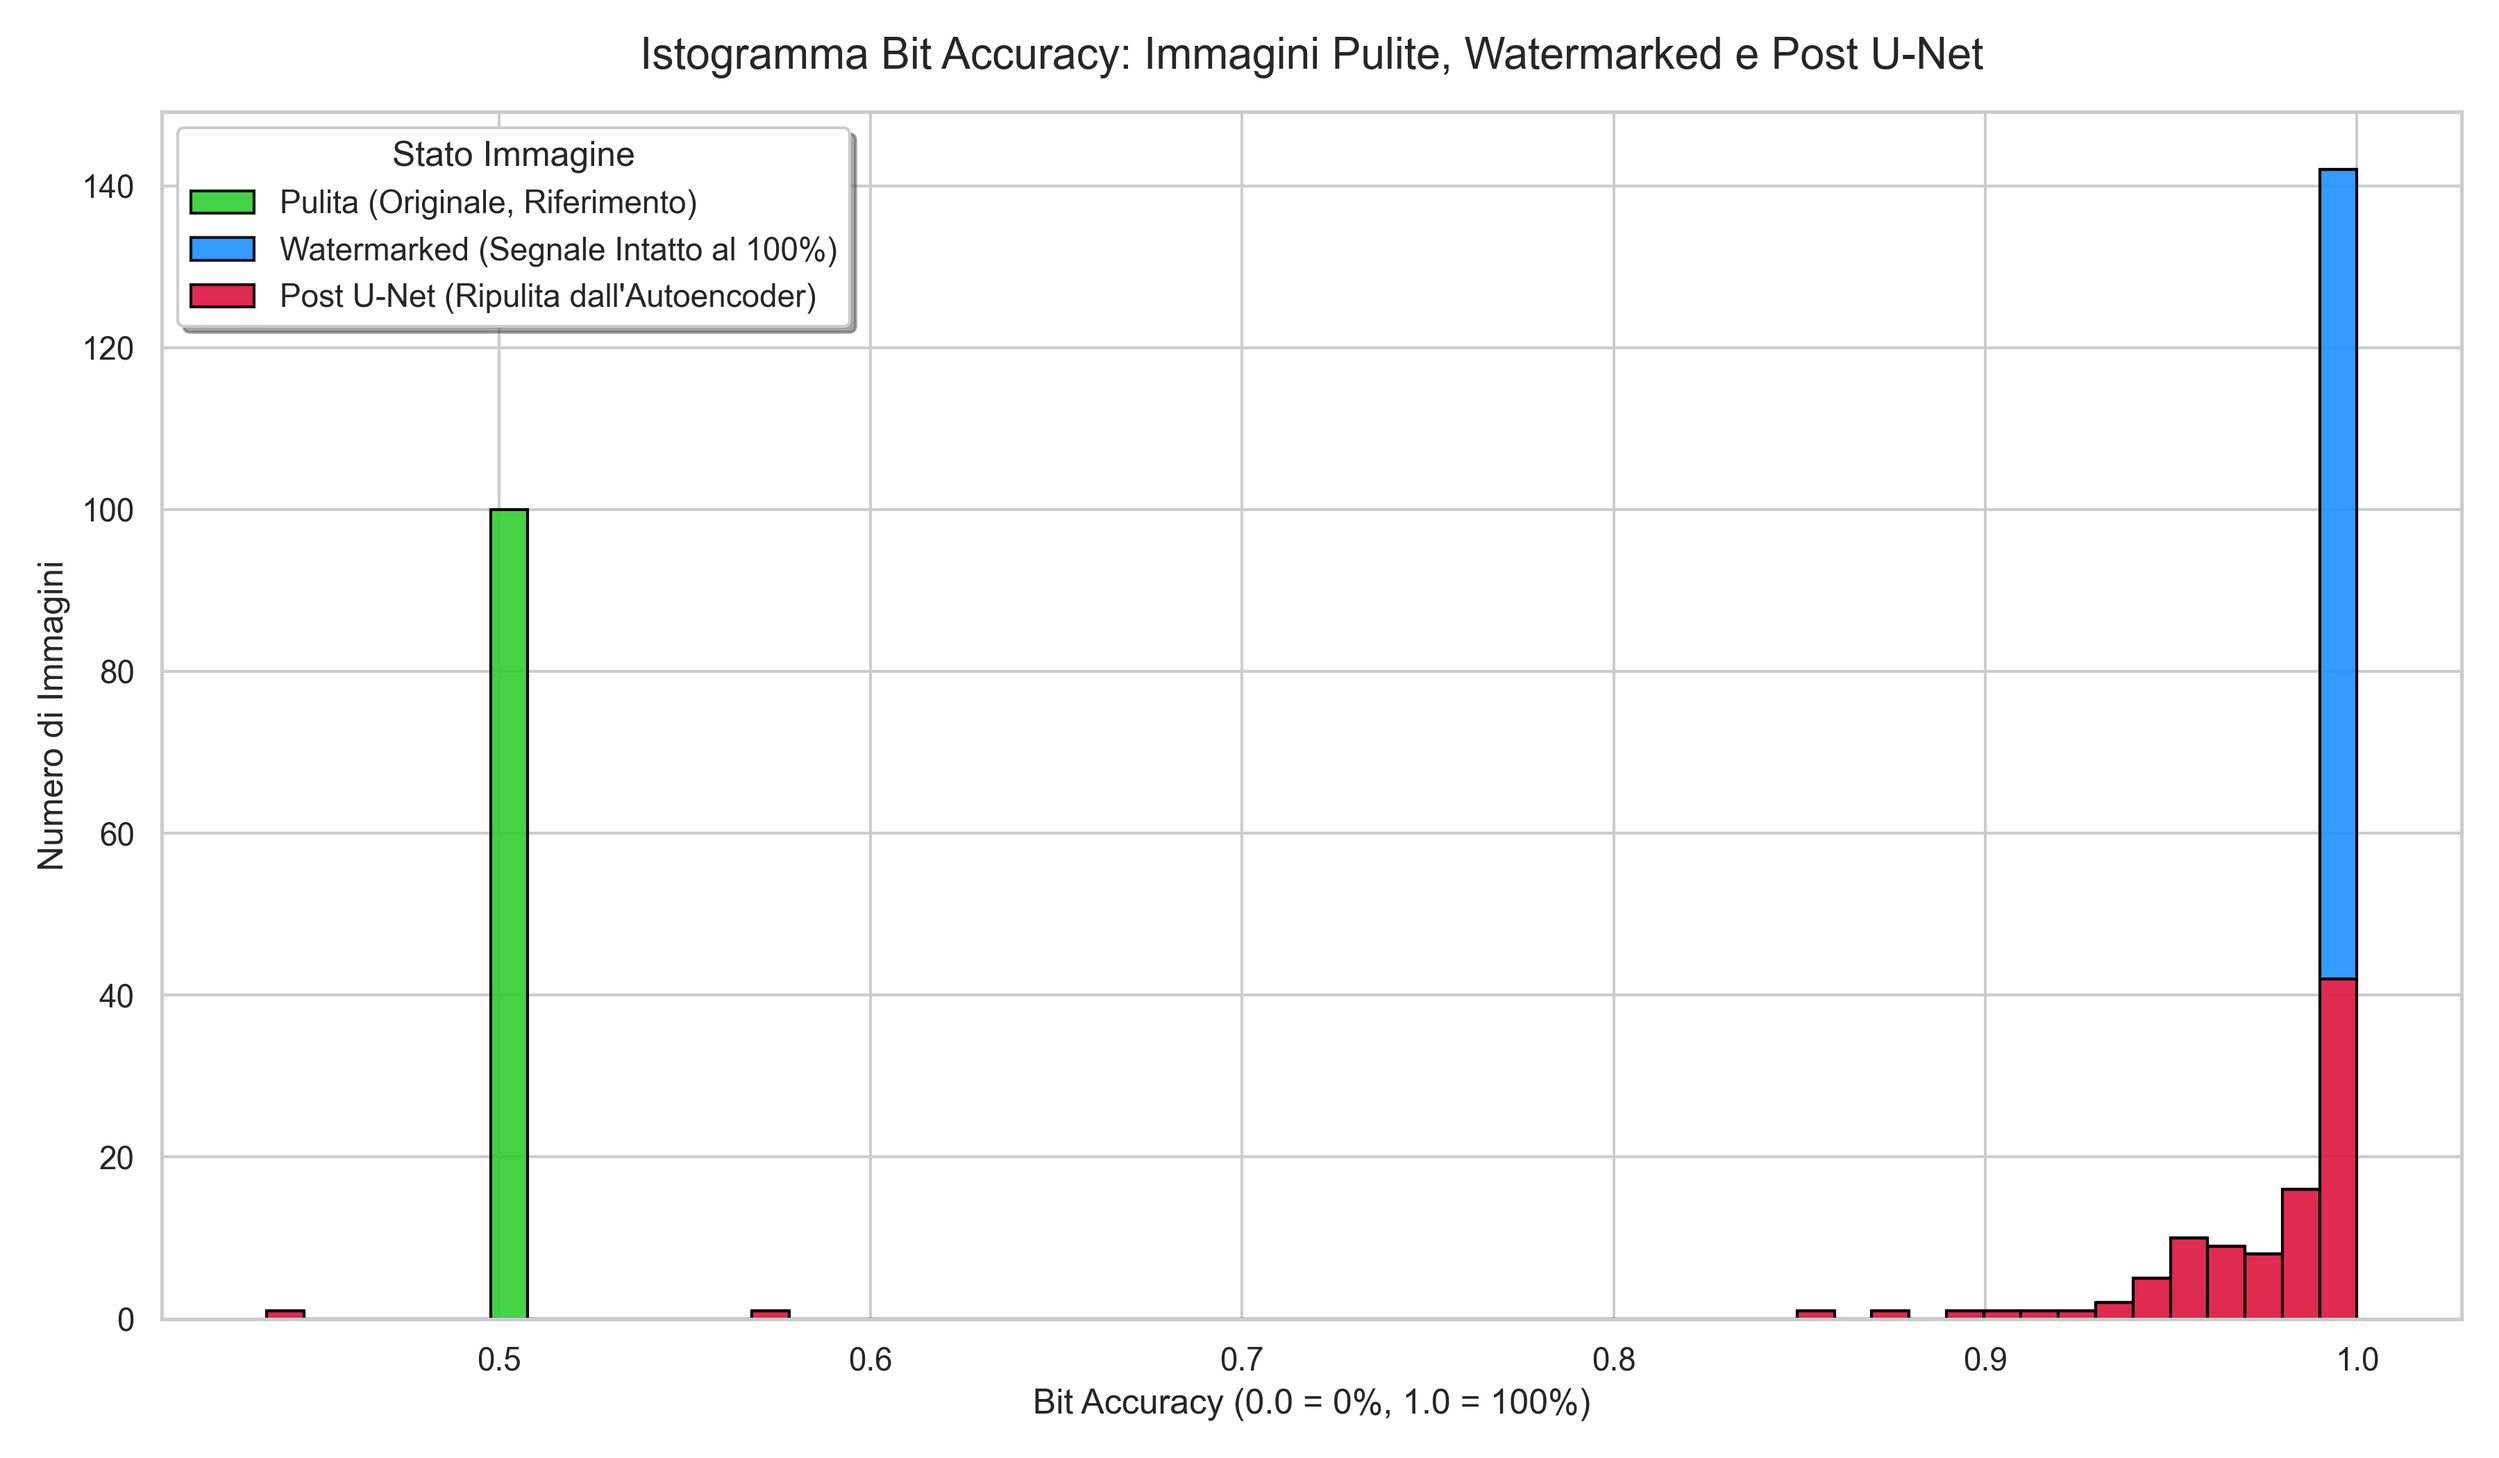
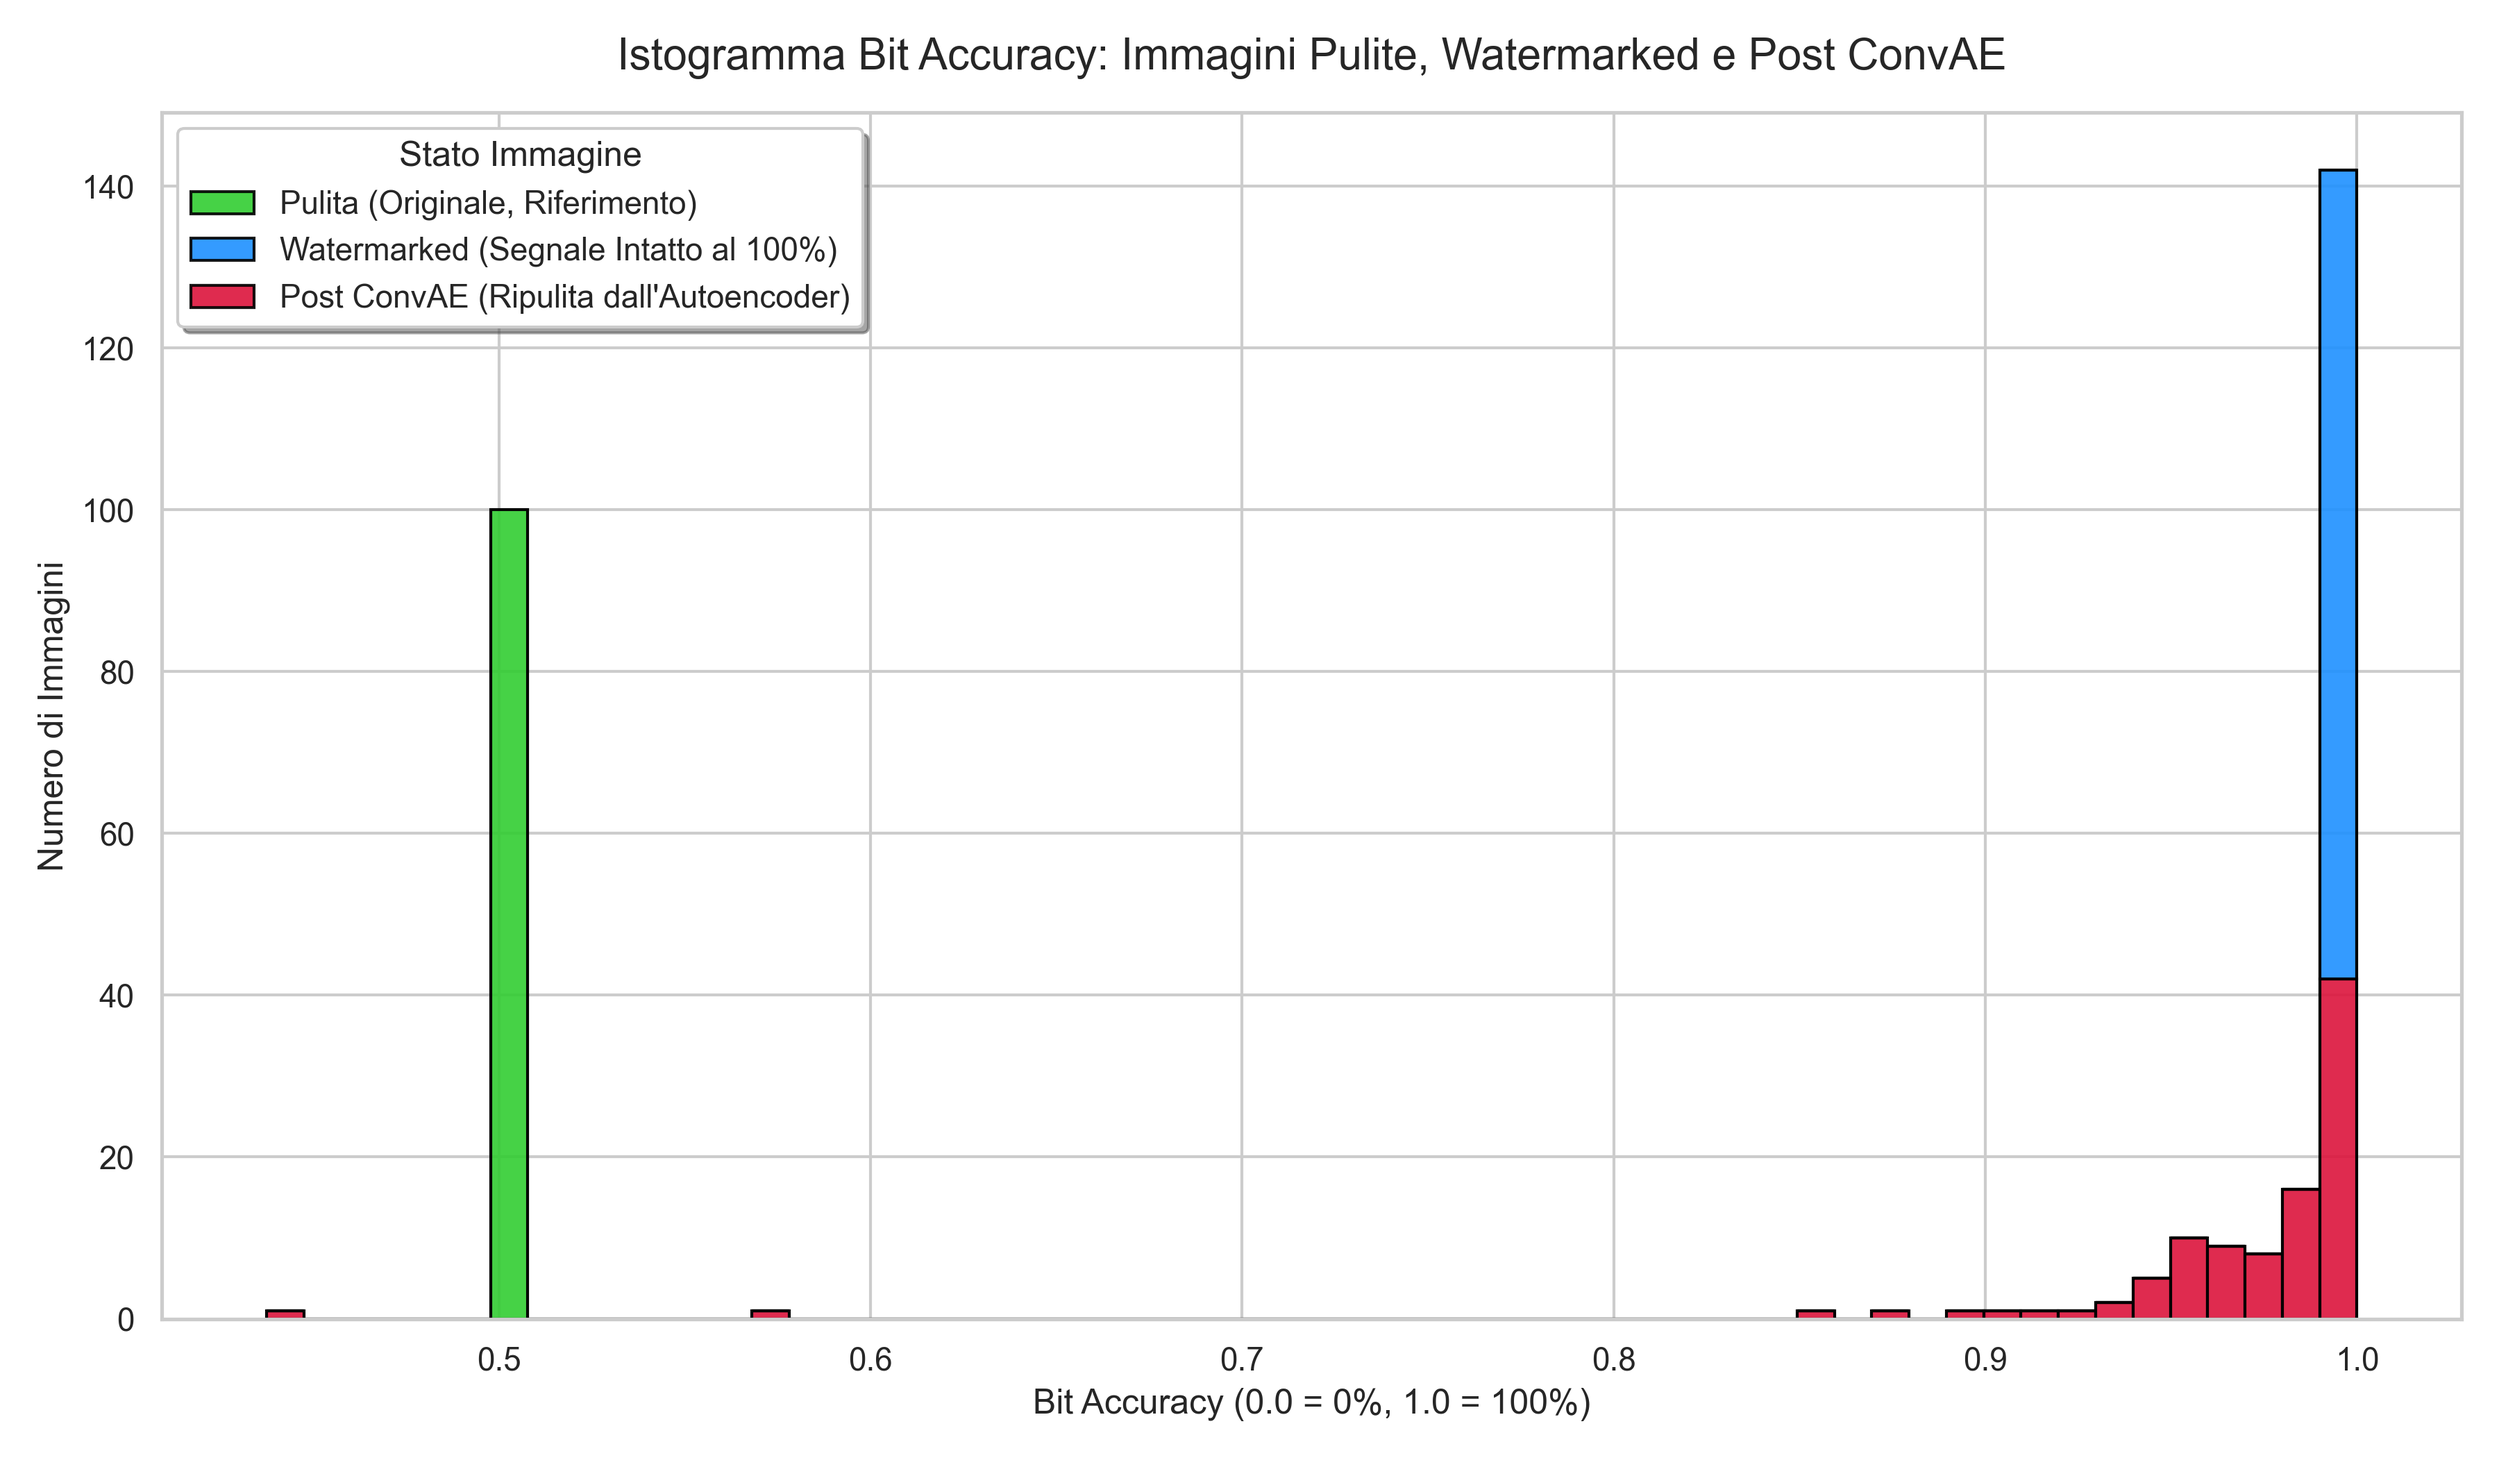
refactor

Changed region(s): [[0.2489, 0.031, 0.8089, 0.0619], [0.1244, 0.0929, 0.3733, 0.2167], [0.1556, 0.0929, 0.2489, 0.1238]]

diff --git a/genGraphConvAE.py b/genGraphConvAE.py
@@ -4,7 +4,7 @@ import seaborn as sns
 import matplotlib.patches as mpatches  # <--- Importante per la legenda custom
 
 # Usa il file generato dallo script di test della U-Net
-NOME_FILE_CSV = "risultati_watermark_UNET.csv"
+NOME_FILE_CSV = "risultati_convae_raptor.csv"
 print(f"Lettura dati da {NOME_FILE_CSV}...")
 df = pd.read_csv(NOME_FILE_CSV, sep=';')
 
@@ -33,9 +33,9 @@ sns.histplot(
 )
 
 # Aggiorniamo il nome dell'attacco per il titolo e il file
-NOME_ATTACCO = "U-Net Denoising"
+NOME_ATTACCO = "ConvAE Denoising"
 
-plt.title(f'Istogramma Bit Accuracy: Immagini Pulite, Watermarked e Post U-Net', fontsize=15, pad=15)
+plt.title(f'Istogramma Bit Accuracy: Immagini Pulite, Watermarked e Post ConvAE', fontsize=15, pad=15)
 plt.xlabel('Bit Accuracy (0.0 = 0%, 1.0 = 100%)', fontsize=12)
 plt.ylabel('Numero di Immagini', fontsize=12)
 
@@ -45,7 +45,7 @@ plt.ylabel('Numero di Immagini', fontsize=12)
 legend_elements = [
     mpatches.Patch(facecolor='limegreen', edgecolor='black', alpha=0.9, label='Pulita (Originale, Riferimento)'),
     mpatches.Patch(facecolor='dodgerblue', edgecolor='black', alpha=0.9, label='Watermarked (Segnale Intatto al 100%)'),
-    mpatches.Patch(facecolor='crimson', edgecolor='black', alpha=0.9, label='Post U-Net (Ripulita dall\'Autoencoder)')
+    mpatches.Patch(facecolor='crimson', edgecolor='black', alpha=0.9, label='Post ConvAE (Ripulita dall\'Autoencoder)')
 ]
 
 # Inseriamo la legenda dentro il grafico in alto a sinistra
